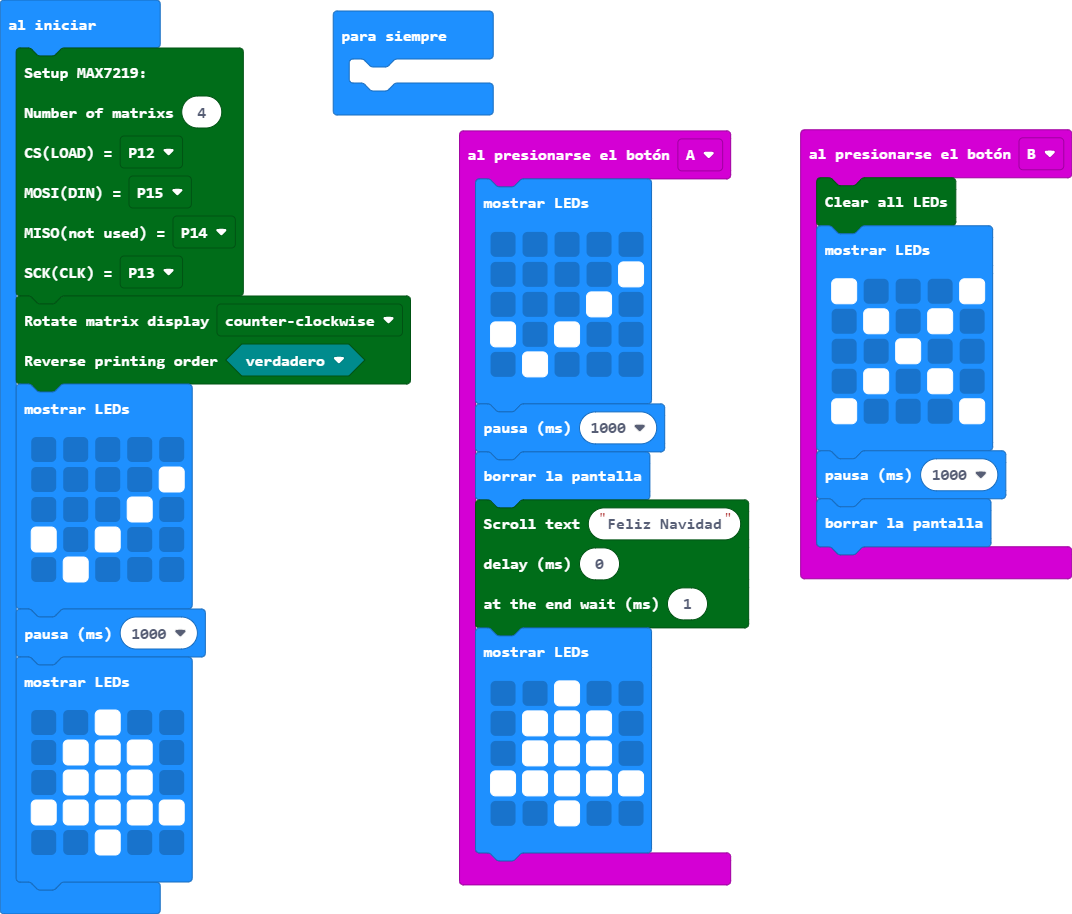
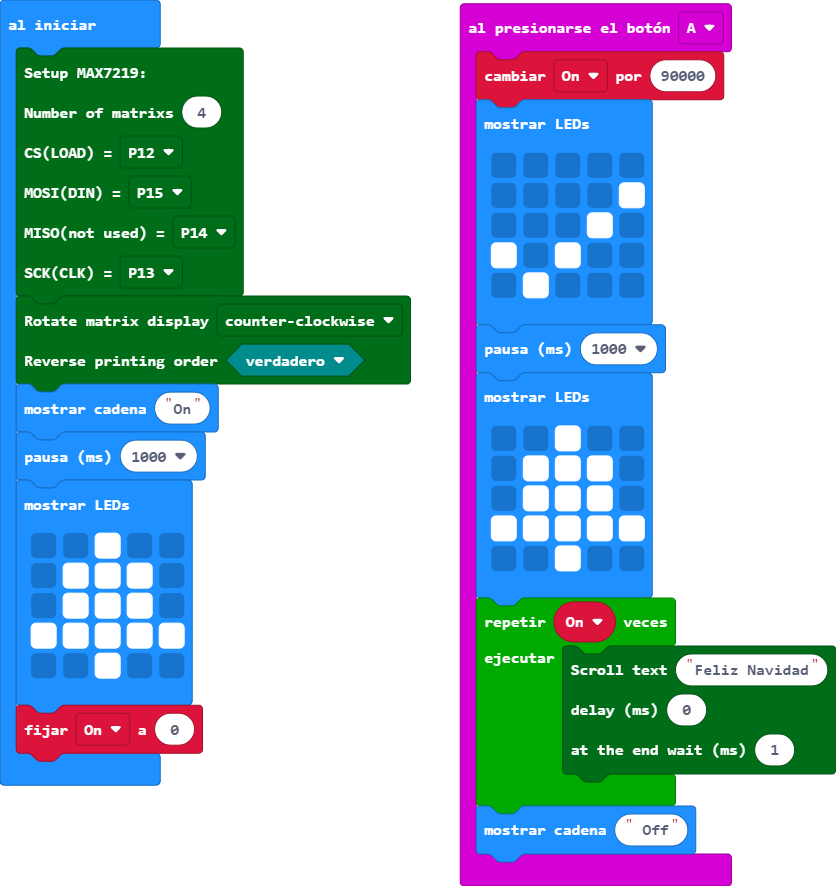
Se elimino basura y se sumaron 90000 ciclos de Feliz Navidad

diff --git a/main.ts b/main.ts
@@ -1,4 +1,5 @@
 input.onButtonPressed(Button.A, function () {
+    On += 90000
     basic.showLeds(`
         . . . . .
         . . . . #
@@ -7,12 +8,6 @@ input.onButtonPressed(Button.A, function () {
         . # . . .
         `)
     basic.pause(1000)
-    basic.clearScreen()
-    max7219_matrix.scrollText(
-    "Feliz Navidad",
-    0,
-    1
-    )
     basic.showLeds(`
         . . # . .
         . # # # .
@@ -20,19 +15,16 @@ input.onButtonPressed(Button.A, function () {
         # # # # #
         . . # . .
         `)
+    for (let index = 0; index < On; index++) {
+        max7219_matrix.scrollText(
+        "Feliz Navidad",
+        0,
+        1
+        )
+    }
+    basic.showString(" Off")
 })
-input.onButtonPressed(Button.B, function () {
-    max7219_matrix.clearAll()
-    basic.showLeds(`
-        # . . . #
-        . # . # .
-        . . # . .
-        . # . # .
-        # . . . #
-        `)
-    basic.pause(1000)
-    basic.clearScreen()
-})
+let On = 0
 max7219_matrix.setup(
 4,
 DigitalPin.P12,
@@ -44,13 +36,7 @@ max7219_matrix.for_4_in_1_modules(
 rotation_direction.counterclockwise,
 true
 )
-basic.showLeds(`
-    . . . . .
-    . . . . #
-    . . . # .
-    # . # . .
-    . # . . .
-    `)
+basic.showString("On")
 basic.pause(1000)
 basic.showLeds(`
     . . # . .
@@ -59,6 +45,4 @@ basic.showLeds(`
     # # # # #
     . . # . .
     `)
-basic.forever(function () {
-	
-})
+On = 0
